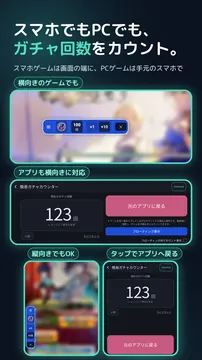
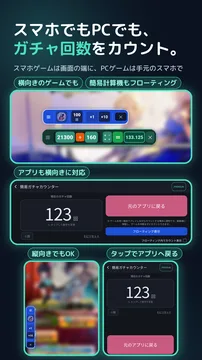
sutamina-techo: version 160のリリースノート(12言語+フォールバック)を反映、プライバシーポリシーにアクセス解析(Firebase / Google アナリティクス)の節を追加、ストア画像3枚目を差し替え、sitemap.xmlを再生成
Claude-Session: https://claude.ai/code/session_01EoYYE7N8wutERpDt16VL5e

Changed region(s): [[0.0594, 0.2139, 0.9505, 0.4583]]

diff --git a/sutamina-techo/privacy-policy.html b/sutamina-techo/privacy-policy.html
@@ -45,7 +45,7 @@
 <a class="back-link" href="./">&larr; アプリのページへ / Back to app page</a>
 
 <h1>プライバシーポリシー(スタミナ手帳)</h1>
-<p class="updated">最終更新日: 2026年9月20日</p>
+<p class="updated">最終更新日: 2026年11月10日</p>
 
 <p>「スタミナ手帳」(以下「本アプリ」)は、開発者(以下「当方」)が提供するiOS/Android向けアプリです。本ポリシーは、本アプリが取得する情報とその取り扱いについて説明します。</p>
 
@@ -80,16 +80,25 @@
   <li>詳細は <a href="https://www.revenuecat.com/privacy/" target="_blank" rel="noopener">RevenueCat のプライバシーポリシー</a> をご確認ください。</li>
 </ul>
 
-<h2>6. 第三者への情報提供</h2>
-<p>上記(Google AdMob、RevenueCat/Google Play・App Store の決済処理)以外の目的で、取得した情報を第三者に提供・販売することはありません。</p>
+<h2>6. アクセス解析(Firebase / Google アナリティクス)</h2>
+<ul>
+  <li>本アプリは、利用状況を把握してアプリを改善するために、Google LLC が提供する「Firebase」および「Google アナリティクス」を利用しています。</li>
+  <li>Android版では、アプリを起動すると計測が有効になり、どの画面が表示されたかなどの利用状況、端末の識別子(アプリのインスタンスID・広告識別子等)、端末・OSの情報、おおよその位置(国や地域レベル)が、Google に送信されて処理されます。登録したゲーム名・スタミナの数値・フリー項目の内容など、アプリ内のデータの内容は送信されません。</li>
+  <li>収集した情報は、アプリの改善の目的にのみ使用し、特定の個人を識別するためには使用しません。</li>
+  <li>本アプリには、アクセス解析をアプリ内でオフにする設定はありません。広告識別子は、端末の設定(Android: 設定 &rarr; Google &rarr; 広告)から削除またはリセットできます。アプリをアンインストールすると、以後の送信は行われなくなります。</li>
+  <li>Google による情報の取り扱いについては、<a href="https://policies.google.com/technologies/partner-sites" target="_blank" rel="noopener">Google のサービスを使用するサイトやアプリから収集した情報の Google による使用</a>および<a href="https://policies.google.com/privacy" target="_blank" rel="noopener">Google プライバシーポリシー</a>をご確認ください。</li>
+</ul>
 
-<h2>7. お子様のご利用について</h2>
+<h2>7. 第三者への情報提供</h2>
+<p>上記(Google AdMob、Firebase / Google アナリティクス、RevenueCat/Google Play・App Store の決済処理)以外の目的で、取得した情報を第三者に提供・販売することはありません。</p>
+
+<h2>8. お子様のご利用について</h2>
 <p>本アプリは子供を主な対象としたアプリではありません。</p>
 
-<h2>8. 本ポリシーの変更</h2>
+<h2>9. 本ポリシーの変更</h2>
 <p>法令の変更や機能追加に伴い、本ポリシーの内容を予告なく変更する場合があります。変更後の内容は本ページに掲載した時点で効力を持ちます。</p>
 
-<h2>9. サブスクリプションの解約について</h2>
+<h2>10. サブスクリプションの解約について</h2>
 <div class="contact">
   サブスクリプションの解約(支払いの停止)は、ご利用のストアの購読管理画面から行えます。<br>
   ・Google Play: <a href="https://play.google.com/store/account/subscriptions" target="_blank" rel="noopener">play.google.com/store/account/subscriptions</a><br>
@@ -99,7 +108,7 @@
 <hr class="lang-divider">
 
 <h1>Privacy Policy (Stamina Notebook)</h1>
-<p class="updated">Last updated: September 20, 2026</p>
+<p class="updated">Last updated: November 10, 2026</p>
 
 <p>"Stamina Notebook" ("the App") is provided for iOS/Android by the developer ("we", "us"). This policy explains what information the App collects and how it is handled.</p>
 
@@ -134,16 +143,25 @@
   <li>See RevenueCat's <a href="https://www.revenuecat.com/privacy/" target="_blank" rel="noopener">Privacy Policy</a> for details.</li>
 </ul>
 
-<h2>6. Third-party sharing</h2>
-<p>We do not share or sell collected information to third parties other than as described above (Google AdMob, RevenueCat / Google Play &amp; App Store billing).</p>
+<h2>6. Analytics (Firebase / Google Analytics)</h2>
+<ul>
+  <li>The App uses "Firebase" and "Google Analytics", provided by Google LLC, to understand how the App is used and to improve it.</li>
+  <li>On Android, measurement is enabled when the App starts. Usage information such as which screens are displayed, device identifiers (such as the app instance ID and the advertising identifier), device/OS information, and approximate location (country or region level) are sent to and processed by Google. The contents of the data in the App, such as game names, stamina values and free-item content, are not sent.</li>
+  <li>The collected information is used only to improve the App and is not used to identify individuals.</li>
+  <li>The App has no in-app setting to turn analytics off. You can delete or reset the advertising identifier in your device settings (Android: Settings &rarr; Google &rarr; Ads). Uninstalling the App stops any further transmission.</li>
+  <li>See <a href="https://policies.google.com/technologies/partner-sites" target="_blank" rel="noopener">How Google uses information from sites or apps that use our services</a> and <a href="https://policies.google.com/privacy" target="_blank" rel="noopener">Google's Privacy Policy</a> for details.</li>
+</ul>
 
-<h2>7. Children</h2>
+<h2>7. Third-party sharing</h2>
+<p>We do not share or sell collected information to third parties other than as described above (Google AdMob, Firebase / Google Analytics, RevenueCat / Google Play &amp; App Store billing).</p>
+
+<h2>8. Children</h2>
 <p>The App is not directed at children.</p>
 
-<h2>8. Changes to this policy</h2>
+<h2>9. Changes to this policy</h2>
 <p>We may update this policy as needed to reflect legal requirements or new features. Changes take effect once posted on this page.</p>
 
-<h2>9. Managing Your Subscription</h2>
+<h2>10. Managing Your Subscription</h2>
 <div class="contact">
   To cancel your subscription (stop billing), please use your store's subscription management screen.<br>
   &bull; Google Play: <a href="https://play.google.com/store/account/subscriptions" target="_blank" rel="noopener">play.google.com/store/account/subscriptions</a><br>

diff --git a/sutamina-techo/release-notes.html b/sutamina-techo/release-notes.html
@@ -58,7 +58,16 @@
 <a class="back-link" href="./">&larr; アプリのページへ</a>
 
 <h1>更新履歴(スタミナ手帳)</h1>
-<p class="updated">最終更新日: 2026年11月7日</p>
+<p class="updated">最終更新日: 2026年11月10日</p>
+
+<h2>v160 (2026-11-10)</h2>
+<ul>
+  <li>追加: ツールに「簡易計算機」を追加しました（計算式を組み立てて、1行の式を他のアプリの上に重ねて表示できます。数字や記号をタップして変更でき、＝で結果をアプリに表示します。Androidのみ）</li>
+  <li>追加: 設定の配色を「スキン」として選べるようになりました（プレビュー付きの選択画面）</li>
+  <li>修正: 他のアプリから戻ったあと、画面が横向きにならなくなる不具合を修正しました</li>
+  <li>修正: バックアップから復元したあと、ホーム画面ウィジェットの表示が更新されないことがある不具合を修正しました</li>
+  <li>その他: 内部の動作を改善しました</li>
+</ul>
 
 <h2>v136 (2026-11-07)</h2>
 <ul>
@@ -132,7 +141,16 @@
 <hr class="lang-divider">
 
 <h1>Release Notes (Stamina Notebook)</h1>
-<p class="updated">Last updated: November 7, 2026</p>
+<p class="updated">Last updated: November 10, 2026</p>
+
+<h2>v160 (2026-11-10)</h2>
+<ul>
+  <li>Added: "Simple Calculator" in Tools – build a formula and show it as a single line on top of other apps. Tap numbers and symbols to change them, and tap "=" to show the result in the app (Android only)</li>
+  <li>Added: Choose your color scheme as a "Skin" (selection screen with previews)</li>
+  <li>Fixed: After returning from another app, the screen no longer rotated to landscape</li>
+  <li>Fixed: The home screen widget sometimes wasn't updated after restoring from a backup</li>
+  <li>Other: Improved internal performance</li>
+</ul>
 
 <h2>v136 (2026-11-07)</h2>
 <ul>

diff --git a/sutamina-techo/release-notes.ru.html b/sutamina-techo/release-notes.ru.html
@@ -59,6 +59,15 @@
 
 <h1>История версий (Stamina Notebook)</h1>
 
+<div class="version">v160 (2026-11-10)</div>
+<ul>
+  <li>Добавлено: «Простой калькулятор» в Инструментах – составьте выражение и показывайте его одной строкой поверх других приложений. Нажимайте на цифры и знаки, чтобы менять их, а «=» покажет результат в приложении (только Android)</li>
+  <li>Добавлено: Цветовую схему можно выбрать как «Оформление» (экран выбора с предпросмотром)</li>
+  <li>Исправлено: После возврата из другого приложения экран переставал поворачиваться в альбомную ориентацию</li>
+  <li>Исправлено: Виджет на главном экране иногда не обновлялся после восстановления из резервной копии</li>
+  <li>Прочее: Улучшена внутренняя работа приложения</li>
+</ul>
+
 <div class="version">v136 (2026-11-07)</div>
 <ul>
   <li>Добавлено: Простой счётчик гачи (открывается на вкладке «Игры»)</li>

diff --git a/sutamina-techo/release-notes.ja.html b/sutamina-techo/release-notes.ja.html
@@ -59,6 +59,15 @@
 
 <h1>更新履歴(スタミナ手帳)</h1>
 
+<div class="version">v160 (2026-11-10)</div>
+<ul>
+  <li>追加: ツールに「簡易計算機」を追加しました（計算式を組み立てて、1行の式を他のアプリの上に重ねて表示できます。数字や記号をタップして変更でき、＝で結果をアプリに表示します。Androidのみ）</li>
+  <li>追加: 設定の配色を「スキン」として選べるようになりました（プレビュー付きの選択画面）</li>
+  <li>修正: 他のアプリから戻ったあと、画面が横向きにならなくなる不具合を修正しました</li>
+  <li>修正: バックアップから復元したあと、ホーム画面ウィジェットの表示が更新されないことがある不具合を修正しました</li>
+  <li>その他: 内部の動作を改善しました</li>
+</ul>
+
 <div class="version">v136 (2026-11-07)</div>
 <ul>
   <li>追加: 簡易ガチャカウンターを追加しました（ゲームタブから開けます）</li>

diff --git a/sutamina-techo/release-notes.ko.html b/sutamina-techo/release-notes.ko.html
@@ -59,6 +59,15 @@
 
 <h1>업데이트 내역(Stamina Notebook)</h1>
 
+<div class="version">v160 (2026-11-10)</div>
+<ul>
+  <li>추가: 도구에 "간이 계산기"를 추가했습니다 (계산식을 만들어 한 줄로 다른 앱 위에 띄울 수 있습니다. 숫자와 기호를 탭해 바꾸고, =를 누르면 앱에 결과가 표시됩니다. Android 전용)</li>
+  <li>추가: 설정의 색상을 "스킨"으로 선택할 수 있습니다 (미리보기가 있는 선택 화면)</li>
+  <li>수정: 다른 앱에서 돌아온 뒤 화면이 가로로 회전하지 않던 문제를 수정했습니다</li>
+  <li>수정: 백업에서 복원한 후 홈 화면 위젯이 갱신되지 않는 경우가 있던 문제를 수정했습니다</li>
+  <li>기타: 내부 동작을 개선했습니다</li>
+</ul>
+
 <div class="version">v136 (2026-11-07)</div>
 <ul>
   <li>추가: 간이 가챠 카운터를 추가했습니다 (게임 탭에서 열 수 있습니다)</li>

diff --git a/sutamina-techo/release-notes.fr.html b/sutamina-techo/release-notes.fr.html
@@ -59,6 +59,15 @@
 
 <h1>Notes de version (Stamina Notebook)</h1>
 
+<div class="version">v160 (2026-11-10)</div>
+<ul>
+  <li>Ajouté: « Calculatrice simple » dans les Outils – composez une formule et affichez-la sur une ligne par-dessus d'autres applis. Touchez les chiffres et symboles pour les modifier, puis « = » pour afficher le résultat dans l'appli (Android uniquement)</li>
+  <li>Ajouté: Choix des couleurs via une « Apparence » (écran de sélection avec aperçu)</li>
+  <li>Corrigé: Après un retour depuis une autre appli, l'écran ne passait plus en mode paysage</li>
+  <li>Corrigé: Le widget de l'écran d'accueil n'était parfois pas mis à jour après une restauration de sauvegarde</li>
+  <li>Autre: Amélioration du fonctionnement interne</li>
+</ul>
+
 <div class="version">v136 (2026-11-07)</div>
 <ul>
   <li>Ajouté: Compteur de gacha simple (accessible depuis l'onglet Jeux)</li>

diff --git a/sutamina-techo/release-notes.de.html b/sutamina-techo/release-notes.de.html
@@ -59,6 +59,15 @@
 
 <h1>Versionshinweise (Stamina Notebook)</h1>
 
+<div class="version">v160 (2026-11-10)</div>
+<ul>
+  <li>Neu: „Einfacher Rechner“ in den Werkzeugen – Formeln zusammenstellen und als einzeilige Formel über anderen Apps einblenden. Zahlen und Symbole antippen zum Ändern, mit „=“ erscheint das Ergebnis in der App (nur Android)</li>
+  <li>Neu: Farbgebung als „Skin“ wählbar (Auswahl mit Vorschau)</li>
+  <li>Behoben: Nach der Rückkehr aus einer anderen App ließ sich der Bildschirm nicht mehr ins Querformat drehen</li>
+  <li>Behoben: Nach einer Wiederherstellung aus der Sicherung wurde das Homescreen-Widget teils nicht aktualisiert</li>
+  <li>Sonstiges: Interne Abläufe verbessert</li>
+</ul>
+
 <div class="version">v136 (2026-11-07)</div>
 <ul>
   <li>Neu: Einfacher Gacha-Zähler (im Tab „Spiele“ zu öffnen)</li>

diff --git a/sutamina-techo/release-notes.es.html b/sutamina-techo/release-notes.es.html
@@ -59,6 +59,15 @@
 
 <h1>Notas de la versión (Stamina Notebook)</h1>
 
+<div class="version">v160 (2026-11-10)</div>
+<ul>
+  <li>Añadido: «Calculadora simple» en Herramientas: crea una fórmula y muéstrala en una línea sobre otras apps. Toca números y símbolos para cambiarlos y pulsa «=» para ver el resultado en la app (solo Android)</li>
+  <li>Añadido: Elige los colores como «Diseño» (pantalla de selección con vista previa)</li>
+  <li>Corregido: Al volver desde otra app, la pantalla ya no giraba a horizontal</li>
+  <li>Corregido: El widget de la pantalla de inicio a veces no se actualizaba tras restaurar una copia de seguridad</li>
+  <li>Otros: Mejoras en el funcionamiento interno</li>
+</ul>
+
 <div class="version">v136 (2026-11-07)</div>
 <ul>
   <li>Añadido: Contador de gacha simple (se abre desde la pestaña Juegos)</li>

diff --git a/sutamina-techo/release-notes.id.html b/sutamina-techo/release-notes.id.html
@@ -59,6 +59,15 @@
 
 <h1>Catatan Rilis (Stamina Notebook)</h1>
 
+<div class="version">v160 (2026-11-10)</div>
+<ul>
+  <li>Ditambahkan: "Kalkulator Sederhana" di Alat – susun rumus dan tampilkan satu baris di atas aplikasi lain. Ketuk angka dan simbol untuk mengubahnya, lalu ketuk "=" untuk menampilkan hasil di aplikasi (khusus Android)</li>
+  <li>Ditambahkan: Warna tampilan kini dapat dipilih sebagai "Tema Tampilan" (layar pilihan dengan pratinjau)</li>
+  <li>Perbaikan: Setelah kembali dari aplikasi lain, layar tidak lagi berputar ke landscape</li>
+  <li>Perbaikan: Widget layar utama terkadang tidak diperbarui setelah memulihkan dari cadangan</li>
+  <li>Lainnya: Perbaikan pada kinerja internal</li>
+</ul>
+
 <div class="version">v136 (2026-11-07)</div>
 <ul>
   <li>Ditambahkan: Penghitung Gacha Sederhana (buka dari tab Game)</li>

diff --git a/sutamina-techo/release-notes.it.html b/sutamina-techo/release-notes.it.html
@@ -59,6 +59,15 @@
 
 <h1>Note di rilascio (Stamina Notebook)</h1>
 
+<div class="version">v160 (2026-11-10)</div>
+<ul>
+  <li>Aggiunto: «Calcolatrice semplice» negli Strumenti – componi una formula e mostrala su una riga sopra altre app. Tocca numeri e simboli per modificarli e «=» per vedere il risultato nell'app (solo Android)</li>
+  <li>Aggiunto: Scegli i colori come «Tema» (schermata di selezione con anteprima)</li>
+  <li>Corretto: Dopo il ritorno da un'altra app, lo schermo non passava più in orizzontale</li>
+  <li>Corretto: Il widget della schermata Home a volte non si aggiornava dopo il ripristino da un backup</li>
+  <li>Altro: Miglioramenti al funzionamento interno</li>
+</ul>
+
 <div class="version">v136 (2026-11-07)</div>
 <ul>
   <li>Aggiunto: Contatore gacha semplice (si apre dalla scheda Giochi)</li>

diff --git a/sutamina-techo/release-notes.pt.html b/sutamina-techo/release-notes.pt.html
@@ -59,6 +59,15 @@
 
 <h1>Notas de versão (Stamina Notebook)</h1>
 
+<div class="version">v160 (2026-11-10)</div>
+<ul>
+  <li>Adicionado: "Calculadora simples" em Ferramentas – monte uma fórmula e exiba-a em uma linha sobre outros apps. Toque nos números e símbolos para alterá-los e em "=" para ver o resultado no app (somente Android)</li>
+  <li>Adicionado: Escolha as cores como "Visual" (tela de seleção com pré-visualização)</li>
+  <li>Corrigido: Ao voltar de outro app, a tela deixava de girar para a horizontal</li>
+  <li>Corrigido: O widget da tela inicial às vezes não era atualizado após restaurar um backup</li>
+  <li>Outros: Melhorias no funcionamento interno</li>
+</ul>
+
 <div class="version">v136 (2026-11-07)</div>
 <ul>
   <li>Adicionado: Contador de gacha simples (abra pela aba Jogos)</li>

diff --git a/sutamina-techo/release-notes.zh-Hant.html b/sutamina-techo/release-notes.zh-Hant.html
@@ -59,6 +59,15 @@
 
 <h1>更新日誌(Stamina Notebook)</h1>
 
+<div class="version">v160 (2026-11-10)</div>
+<ul>
+  <li>新增：工具中新增「簡易計算機」（可組合算式，並以單行形式懸浮顯示在其他應用程式上方。點按數字和符號即可修改，點「=」會在應用程式中顯示結果。僅限 Android）</li>
+  <li>新增：可將設定中的配色選為「皮膚」（附預覽的選擇畫面）</li>
+  <li>修正：從其他應用程式返回後，畫面無法切換為橫屏的問題</li>
+  <li>修正：從備份還原後，主畫面小工具有時不會更新的問題</li>
+  <li>其他：改進了內部運作</li>
+</ul>
+
 <div class="version">v136 (2026-11-07)</div>
 <ul>
   <li>新增：簡易抽卡計數器（可從「遊戲」分頁開啟）</li>
